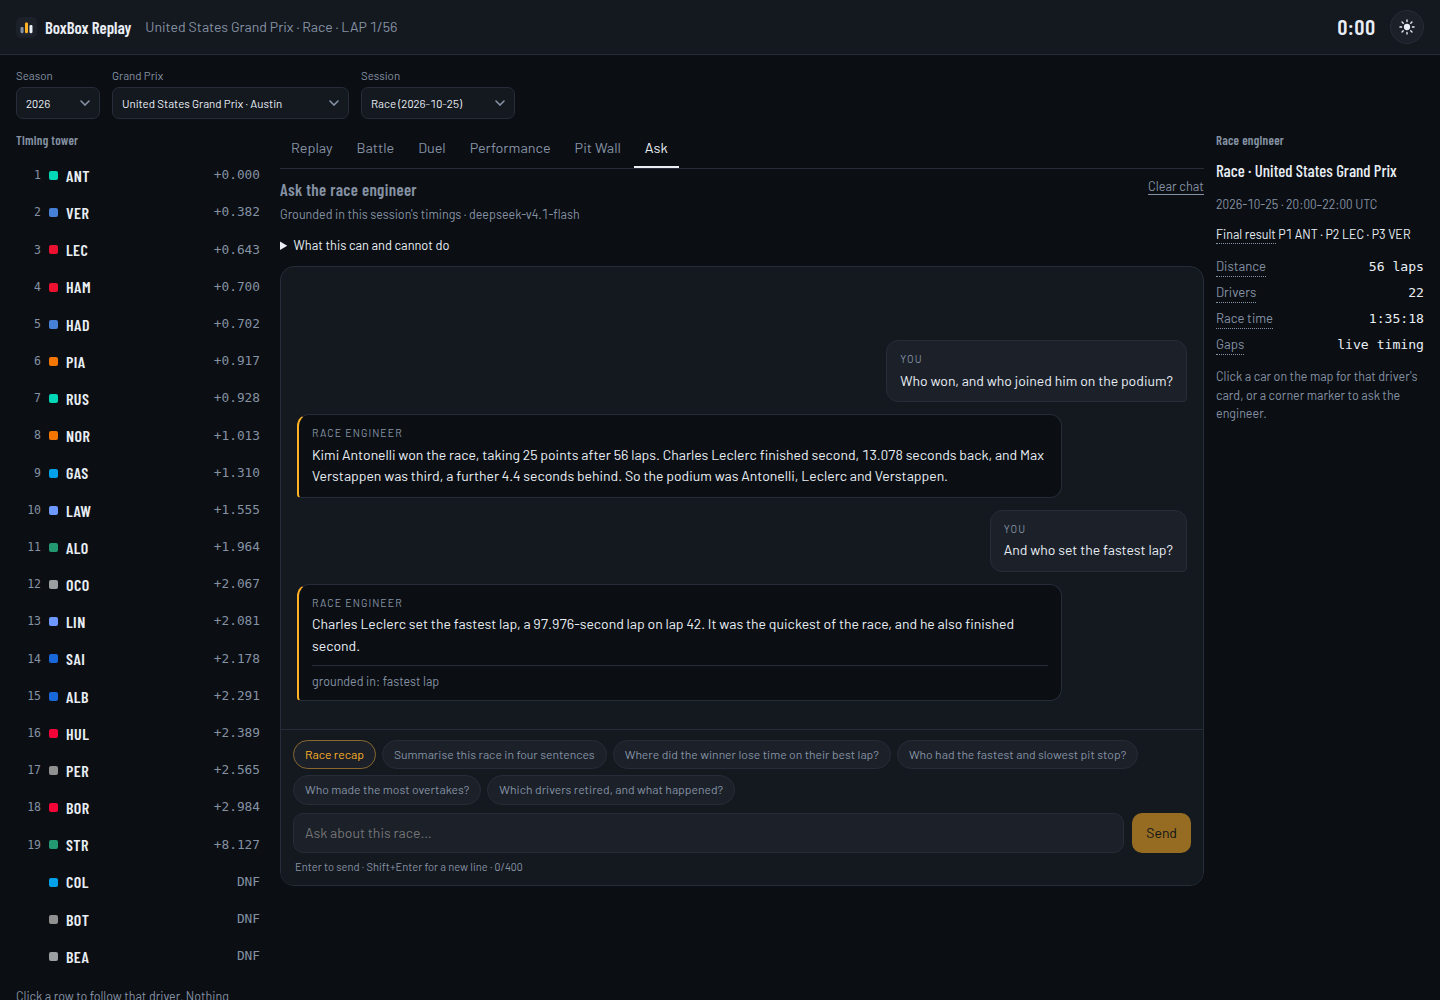
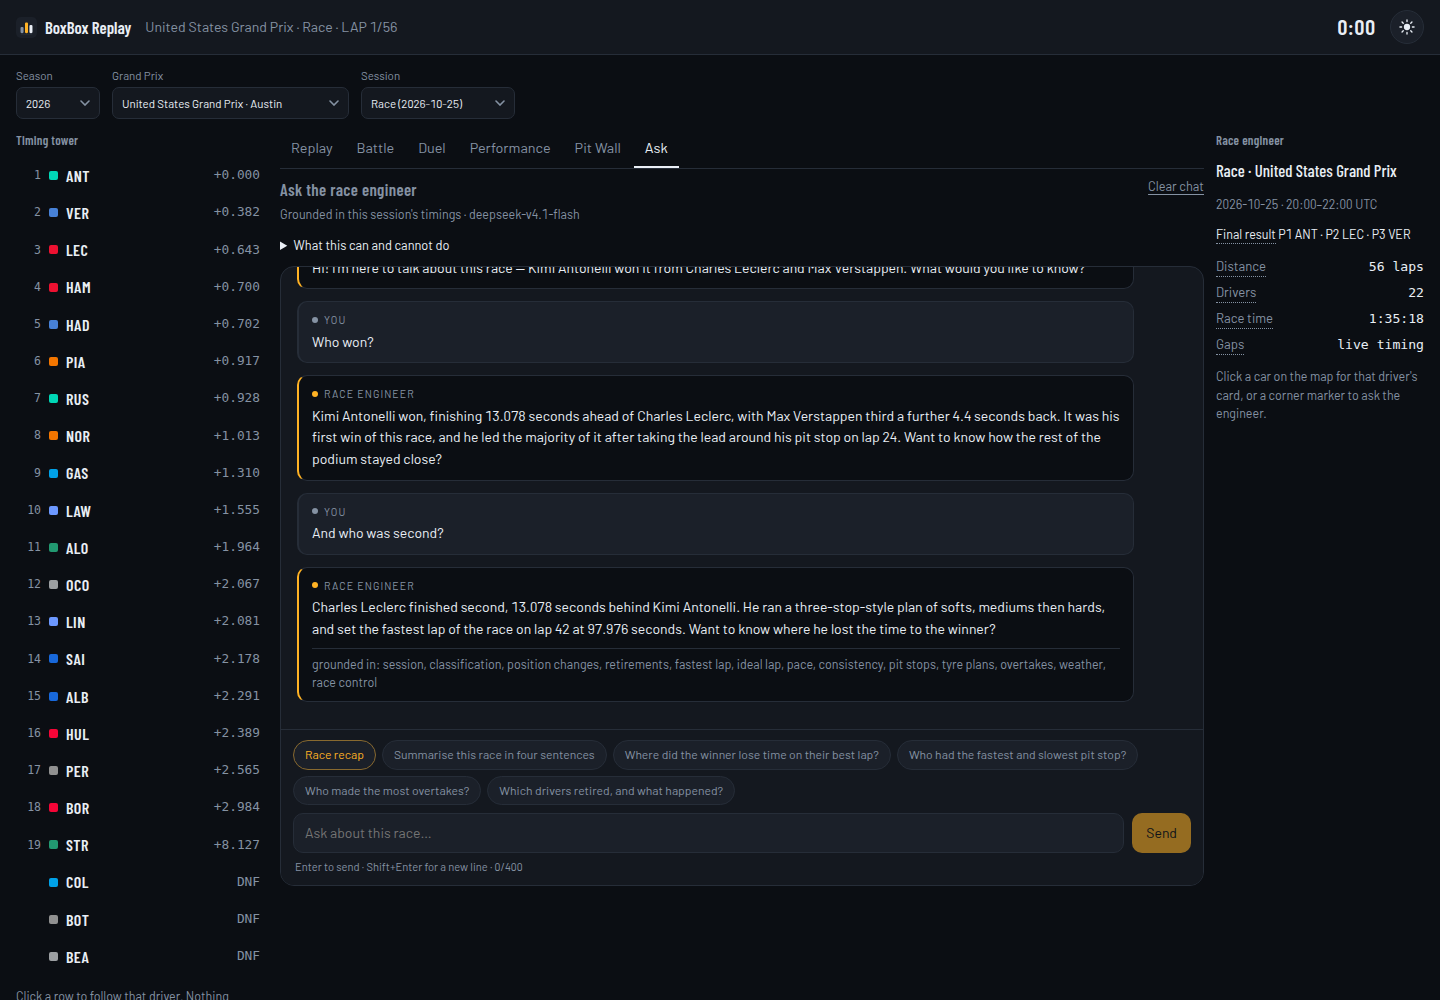
feat(pit,chat): readable transcript order and visible pit arithmetic
- chat: single left-aligned column with a role dot, so the thread reads
  you -> engineer -> you -> engineer instead of two bubble columns
- pit model returns the break-even pit loss, stay advantage, wear total and
  traffic penalty; the panel shows both sums with the real numbers, notes that
  wear cancels in the decision, and states the flip point
- the margin now says when it includes the traffic penalty
- the engineer explanation is introduced by what it receives and what it will
  not do (recalculate or change the totals)
- docs, screenshots and state updated; 88 pytest + 76 vitest

diff --git a/web/src/components/PitPanel.tsx b/web/src/components/PitPanel.tsx
@@ -23,6 +23,10 @@ interface Call {
   pit_total_s: number;
   recommendation: string;
   traffic_on_exit: boolean;
+  break_even_pit_loss_s: number;
+  stay_advantage_s: number;
+  deg_total_s: number;
+  traffic_penalty_s: number;
 }
 
 /**
@@ -229,6 +233,55 @@ export default function PitPanel(p: Props) {
             </p>
           )}
 
+          <h3 style={{ marginTop: 18 }}>The arithmetic, step by step</h3>
+          <p className="dim small" style={{ marginTop: -4 }}>
+            Both scenarios are summed over {lapsLeft} laps. The wear term appears in both, so it
+            cancels in the comparison — it moves the totals, not the decision.
+          </p>
+          <div className="pit-math">
+            <div className="pit-math-row">
+              <span>Stay out</span>
+              <code>
+                {lapsLeft} × {base.toFixed(2)} + {deg.toFixed(3)} × {Math.round((lapsLeft * (lapsLeft - 1)) / 2)} ={" "}
+                {call.stay_total_s.toFixed(1)}s
+              </code>
+            </div>
+            <div className="pit-math-row">
+              <span>Pit now</span>
+              <code>
+                {pitLoss.toFixed(1)} + {lapsLeft} × {fresh.toFixed(2)} + {deg.toFixed(3)} ×{" "}
+                {Math.round((lapsLeft * (lapsLeft - 1)) / 2)} = {call.pit_total_s.toFixed(1)}s
+              </code>
+            </div>
+            <div className="pit-math-row verdict">
+              <span>{call.recommendation === "PIT NOW" ? "Pitting wins" : "Staying out wins"}</span>
+              <code>
+                {Math.abs(call.stay_advantage_s).toFixed(1)}s over {lapsLeft} laps ·{" "}
+                {(Math.abs(call.stay_advantage_s) / Math.max(1, lapsLeft)).toFixed(2)}s per lap
+                {call.traffic_penalty_s > 0
+                  ? ` (includes the ${call.traffic_penalty_s.toFixed(1)}s traffic penalty)`
+                  : ""}
+              </code>
+            </div>
+          </div>
+          <p className="small">
+            {call.break_even_pit_loss_s <= 0 ? (
+              <>Break-even: even a free pit stop would not pay off at this pace.</>
+            ) : (
+              <>
+                Break-even pit loss: <b>{call.break_even_pit_loss_s.toFixed(1)}s</b>. A stop that
+                costs less than that favours pitting; this one is set to {pitLoss.toFixed(1)}s
+                {call.traffic_penalty_s > 0
+                  ? ` plus ${call.traffic_penalty_s.toFixed(1)}s of traffic penalty`
+                  : ""}
+                , so the model says <b>{call.recommendation.toLowerCase()}</b>.
+              </>
+            )}
+          </p>
+          <p className="dim small">
+            Wear adds {call.deg_total_s.toFixed(1)}s to both scenarios over these {lapsLeft} laps.
+          </p>
+
           <div className="pit-explain">
             <button
               type="button"
@@ -264,9 +317,15 @@ export default function PitPanel(p: Props) {
             >
               {explainBusy ? "Asking the engineer…" : "Explain this call"}
             </button>
-            <span className="dim small">
-              Plain-language reasoning from the same numbers — the model never recalculates them.
-            </span>
+            <div className="pit-ai-help">
+              <p className="dim small">
+                The engineer receives the driver, tyre and age, laps remaining, current and
+                fresh-tyre pace, wear, the pit-loss slider, the gap behind and the two totals. It
+                writes three sentences: which way the model leans, the main reason, and the single
+                biggest assumption. It never recalculates or changes the numbers, and it cannot see
+                anything outside this session.
+              </p>
+            </div>
             {explainError && <p className="small warn">{explainError}</p>}
             {explain && (
               <div className="pit-explain-note">

diff --git a/web/src/index.css b/web/src/index.css
@@ -2039,31 +2039,39 @@ tr.driver-marked td {
   font-weight: 600;
 }
 .ask-turn {
-  max-width: 86%;
+  max-width: 94%;
   border: 1px solid var(--line);
-  border-radius: 12px;
+  border-left: 2px solid var(--line);
+  border-radius: 10px;
   padding: 10px 13px;
   background: var(--bg);
   overflow-wrap: anywhere;
 }
 .ask-turn.user {
-  margin-left: auto;
-  max-width: 76%;
   background: var(--panel-2);
-  border-color: var(--line);
-  border-bottom-right-radius: 4px;
 }
 .ask-turn.engineer {
-  border-left: 2px solid var(--amber);
-  border-bottom-left-radius: 4px;
+  border-left-color: var(--amber);
 }
 .ask-role {
-  display: block;
+  display: flex;
+  align-items: center;
+  gap: 6px;
   font-size: 0.66rem;
   letter-spacing: 0.1em;
   text-transform: uppercase;
   color: var(--dim);
   margin-bottom: 3px;
+}
+.ask-role::before {
+  content: "";
+  width: 6px;
+  height: 6px;
+  border-radius: 50%;
+  background: var(--dim);
+}
+.ask-turn.engineer .ask-role::before {
+  background: var(--amber);
 }
 .ask-turn p {
   margin: 0;
@@ -2212,16 +2220,13 @@ tr.driver-marked td {
     min-height: 320px;
   }
   .ask-turn {
-    max-width: 94%;
-  }
-  .ask-turn.user {
-    max-width: 88%;
+    max-width: 100%;
   }
 }
 .pit-explain {
   display: flex;
-  flex-wrap: wrap;
-  align-items: center;
+  flex-direction: column;
+  align-items: flex-start;
   gap: var(--space-2);
   margin-top: var(--space-3);
 }
@@ -2256,4 +2261,41 @@ tr.driver-marked td {
 .pit-explain-note footer {
   border-top: 1px solid var(--line);
   padding-top: 6px;
+}
+
+.pit-math {
+  display: grid;
+  gap: 4px;
+  margin: 6px 0 10px;
+  font-size: 0.82rem;
+}
+.pit-math-row {
+  display: flex;
+  justify-content: space-between;
+  gap: var(--space-3);
+  padding: 6px 10px;
+  background: var(--panel-2);
+  border-radius: 6px;
+}
+.pit-math-row code {
+  font-variant-numeric: tabular-nums;
+  color: var(--ink);
+}
+.pit-math-row.verdict {
+  background: transparent;
+  border: 1px solid var(--line);
+}
+.pit-ai-help {
+  flex-basis: 100%;
+  max-width: 74ch;
+}
+.pit-ai-help p {
+  margin: 0;
+  line-height: 1.5;
+}
+@media (max-width: 640px) {
+  .pit-math-row {
+    flex-direction: column;
+    gap: 2px;
+  }
 }

diff --git a/web/src/api.ts b/web/src/api.ts
@@ -122,6 +122,10 @@ export const api = {
         recommendation: string;
         traffic_on_exit: boolean;
         toy_model: boolean;
+        break_even_pit_loss_s: number;
+        stay_advantage_s: number;
+        deg_total_s: number;
+        traffic_penalty_s: number;
       };
     }>("/ai/pit", body),
   aiAsk: (sessionKey: number, question: string) =>
@@ -169,6 +173,10 @@ export const api = {
       recommendation: string;
       traffic_on_exit: boolean;
       toy_model: boolean;
+      break_even_pit_loss_s: number;
+      stay_advantage_s: number;
+      deg_total_s: number;
+      traffic_penalty_s: number;
     }>("/pit-call", body),
   coachAsk: (body: {
     driver: string;

diff --git a/analysis.py b/analysis.py
@@ -514,11 +514,16 @@ def pit_toy_model(
     if laps_remaining < 1:
         raise ValueError("laps_remaining must be >= 1")
     deg = max(0.0, float(deg_slope_s_per_lap))
-    stay_total = sum(base_pace_s + deg * i for i in range(laps_remaining))
-    pit_total = float(pit_loss_s) + sum(fresh_pace_s + deg * i for i in range(laps_remaining))
+    laps = int(laps_remaining)
+    # Same degradation term in both scenarios: it cancels in the comparison and
+    # only moves the totals. Exposed so the UI can show the algebra.
+    deg_total = deg * laps * (laps - 1) / 2.0
+    stay_total = laps * float(base_pace_s) + deg_total
+    pit_total = float(pit_loss_s) + laps * float(fresh_pace_s) + deg_total
     traffic = gap_behind_s is not None and gap_behind_s < float(pit_loss_s)
+    penalty = 5.0 if traffic else 0.0
     recommend = "STAY OUT"
-    if pit_total + (5.0 if traffic else 0.0) < stay_total:
+    if pit_total + penalty < stay_total:
         recommend = "PIT NOW"
     return {
         "stay_total_s": stay_total,
@@ -526,6 +531,12 @@ def pit_toy_model(
         "recommendation": recommend,
         "traffic_on_exit": bool(traffic),
         "toy_model": True,
+        # Pit loss at which the call flips; below it, pitting wins.
+        "break_even_pit_loss_s": laps * (float(base_pace_s) - float(fresh_pace_s)) - penalty,
+        # Positive means staying out is ahead by this many seconds.
+        "stay_advantage_s": pit_total + penalty - stay_total,
+        "deg_total_s": deg_total,
+        "traffic_penalty_s": penalty,
     }
 
 

diff --git a/tests/test_analysis.py b/tests/test_analysis.py
@@ -374,3 +374,26 @@ def test_clean_track_points_keeps_a_normal_trace():
     xs = np.arange(0, 60) * 100.0
     frame = pd.DataFrame({"x": xs, "y": np.zeros_like(xs)})
     assert len(analysis.clean_track_points(frame, "x", "y")) == len(frame)
+
+
+def test_pit_model_exposes_the_arithmetic():
+    call = analysis.pit_toy_model(100.0, 99.0, 0.2, 10, pit_loss_s=5.0)
+    # deg term cancels: 10 laps at +0.2/lap = 9.0s in both totals
+    assert call["deg_total_s"] == pytest.approx(9.0)
+    assert call["stay_total_s"] == pytest.approx(1009.0)
+    assert call["pit_total_s"] == pytest.approx(5.0 + 990.0 + 9.0)
+    # break-even is 10 * (100 - 99) = 10s; a 5s stop is under it, so pit wins
+    assert call["break_even_pit_loss_s"] == pytest.approx(10.0)
+    assert call["stay_advantage_s"] == pytest.approx(-5.0)
+    assert call["recommendation"] == "PIT NOW"
+
+    # Above the break-even the call flips, and degradation does not change that.
+    expensive = analysis.pit_toy_model(100.0, 99.0, 0.2, 10, pit_loss_s=15.0)
+    assert expensive["break_even_pit_loss_s"] == pytest.approx(10.0)
+    assert expensive["recommendation"] == "STAY OUT"
+    assert expensive["stay_advantage_s"] == pytest.approx(5.0)
+
+    # Traffic eats five seconds of the break-even budget.
+    traffic = analysis.pit_toy_model(100.0, 99.0, 0.2, 10, pit_loss_s=5.0, gap_behind_s=1.0)
+    assert traffic["traffic_penalty_s"] == pytest.approx(5.0)
+    assert traffic["break_even_pit_loss_s"] == pytest.approx(5.0)

diff --git a/api/main.py b/api/main.py
@@ -1268,6 +1268,8 @@ def ai_pit_explain(body: PitExplainRequest) -> dict:
         + (f"{body.gap_behind_s:.1f}s" if body.gap_behind_s is not None else "not recorded")
         + f".\nModel totals: stay out {call['stay_total_s']:.1f}s vs pit "
         f"{call['pit_total_s']:.1f}s. The model leans: {lean}. "
+        f"Break-even pit loss: {call['break_even_pit_loss_s']:.1f}s. "
+        f"Wear adds {call['deg_total_s']:.1f}s to both totals. "
         f"Traffic on exit: {'yes' if call['traffic_on_exit'] else 'no'}. "
         f"This is an explicit toy model: no safety car, linear degradation, "
         f"and the pit loss is an assumption."

diff --git a/README.md b/README.md
@@ -20,8 +20,8 @@ Free, no account, no live-timing subscription. Data comes from public archives a
 - **Lap times.** Sortable by time or sector (fastest first), filterable by driver, and comparable across any number of drivers.
 - **Driver inputs.** Throttle, brake, gear and DRS for the lap under the playhead, overlaid for every followed driver, with a hover readout at any point on the trace; missing channels print "—" instead of a guess.
 - **Lap duel.** Two laps race the same circuit, aligned by distance around the lap, with a live delta that starts at 0.000 and closes exactly on the official lap-time difference.
-- **Pit strategy toy model.** "Pit now or stay out?" using measured pace and wear, with the breakdown and every assumption shown — plus an **Explain this call** button where the engineer puts the numbers into plain language without recalculating them.
-- **Ask the race engineer (chat).** A bordered chat panel with a pinned composer: follow-ups keep the thread, prompt chips stay one click away, the transcript scrolls (with a “Newest” jump when you read back), long questions wrap, and Clear chat wipes the tab-local history. Answers use full driver names and every session fact (full classification, retirements, sector and ideal-lap references, pace, pit stops, tyre plans, overtakes, weather, race control), stay in the app's voice, and decline off-topic questions. The API key stays on the server.
+- **Pit strategy toy model.** "Pit now or stay out?" using measured pace and wear, with the arithmetic shown step by step, a **break-even pit loss**, the assumptions, and an **Explain this call** button that names exactly what the engineer receives and will not recalculate.
+- **Ask the race engineer (chat).** A bordered chat panel with a pinned composer, read top-to-bottom as one column (you, engineer, you, engineer): follow-ups keep the thread, prompt chips stay one click away, the transcript scrolls (with a “Newest” jump when you read back), long questions wrap, and Clear chat wipes the tab-local history. Answers use full driver names and every session fact (full classification, retirements, sector and ideal-lap references, pace, pit stops, tyre plans, overtakes, weather, race control), stay in the app's voice, and decline off-topic questions. The API key stays on the server.
 - **Shareable moments.** "Copy link" stores the exact timestamp, so a link reopens the same frame.
 - **Dark and light themes**, keyboard shortcuts, reduced-motion support, and a layout that stacks on phones.
 

diff --git a/docs/V2_PLAN.md b/docs/V2_PLAN.md
@@ -308,3 +308,28 @@ Two real bugs surfaced while testing: the transcript did not scroll on load
 because the shell mounts only after `/ai/status` resolves (the effect now depends
 on it), and smooth scrolling during layout could stall (auto-follow now uses an
 instant scroll in a frame).
+
+## V2.13 — Transcript read order and pit-wall arithmetic (shipped)
+
+**Chat.** The left/right bubble split read like two columns; the transcript is
+now a single left-aligned column with a role dot, so the order is unmistakably
+you → engineer → you → engineer. The panel, pinned composer, prompts and scroll
+behaviour are unchanged.
+
+**Pit wall.** The panel now shows its own algebra:
+
+- stay out = `laps × current pace + wear × n(n−1)/2`
+- pit now = `pit loss + laps × fresh pace + wear × n(n−1)/2`
+- the wear term is identical in both, so it cancels in the decision and only
+  moves the totals (called out next to the sums)
+- **break-even pit loss** = `laps × (current − fresh) − traffic penalty`; the
+  model returns it, and the UI says whether the slider is above or below it
+  (or that even a free stop would not pay off)
+- the margin shown includes the traffic penalty only when it applies, and says so
+- the engineer explanation now sits under a description of what it receives
+  (driver, tyre/age, laps left, both paces, wear, pit loss, gap, totals) and what
+  it will not do (recalculate or change the numbers).
+
+The model returns `break_even_pit_loss_s`, `stay_advantage_s`, `deg_total_s` and
+`traffic_penalty_s`, covered by a test that checks the algebra, the flip point
+and the traffic adjustment.

diff --git a/.claude/state/CURRENT_STATUS.md b/.claude/state/CURRENT_STATUS.md
@@ -19,6 +19,7 @@ DEPLOYED prod, healthy at http://<host>:8501.
 - [x] V2.11: chat thread with clear + sessionStorage; pit stop/consistency/position facts
 - [x] V2.12: pit-wall 'Explain this call' (model narrates, never recalculates)
 - [x] V2.13: chat panel rebuilt (pinned composer, prompts, scroll/jump, mobile)
+- [x] V2.14: transcript single column; pit-wall arithmetic + break-even + AI scope
 - [ ] V2.6 pit Gantt · V2.7 share card · V2.5 fight finder deferred (feed too noisy)
 - [x] fix: glitch filter no longer truncates a circuit after one telemetry gap
 - [x] R1: all-driver canvas replay (map, tower, playback, synced trace)
@@ -38,7 +39,7 @@ None
 - API image: non-root user, no secrets baked, `no-new-privileges`, named cache volume in prod.
 
 ## Last Updated
-2026-11-06: chat panel rebuild; v2.6.0
+2026-11-06: transcript order + pit-wall arithmetic; v2.7.0
 (Update this line and keep this file under ~80 lines; move history to HISTORY.md.)
 
 - [x] U9: smoothness (60fps), chart hover + responsive widths, stacked stints, honest pit model

diff --git a/.claude/state/HISTORY.md b/.claude/state/HISTORY.md
@@ -400,3 +400,12 @@ renders after /ai/status), so the effect now depends on that flag; and smooth
 scrolling during layout could stall, so auto-follow uses an instant scroll in a
 requestAnimationFrame. Mobile: tab bar wraps, clear action no longer wraps, panel
 fits the viewport. Verified desktop + 390px, jump-to-bottom, persistence.
+
+Transcript + pit math pass: chat turns now read as one left-aligned column with a
+role dot (you/engineer/you/engineer) instead of right/left bubbles. The pit model
+returns break_even_pit_loss_s, stay_advantage_s, deg_total_s and
+traffic_penalty_s; the panel shows both sums with substituted numbers, notes that
+wear cancels in the decision, states the break-even (including the traffic
+penalty) and explains what the engineer receives and will not do. A UI bug where
+the traffic penalty was folded into the margin without saying so was fixed.
+88 pytest + 76 vitest.

diff --git a/docs/screenshots/README.md b/docs/screenshots/README.md
@@ -14,8 +14,8 @@ Captured from the running app (Suzuka 2024, Race, lap 25) at 1400×880, plus one
 | `07-mobile.png` | Phone layout |
 | `08-duel.png` | Lap duel: two laps on the circuit with the live delta |
 | `09-inputs.png` | Throttle, brake and gear for the lap under the playhead |
-| `10-ask.png` | Ask tab: bordered chat panel, prompts, thread |
+| `10-ask.png` | Ask tab: single-column transcript, prompts, composer |
 | `14-chat-mobile.png` | The same chat on a phone |
-| `13-pit-ai.png` | Pit wall with the engineer's explanation |
+| `13-pit-ai.png` | Pit wall: step-by-step arithmetic, break-even, engineer explanation |
 | `11-dashboard.png` | Landing dashboard with suggestions |
 | `12-dashboard-recent.png` | Continue list with the filter and remove controls |

diff --git a/.claude/state/TASK_QUEUE.md b/.claude/state/TASK_QUEUE.md
@@ -86,7 +86,8 @@ Rule for all: one milestone = one commit (`feat(mX): ...`), tests + ruff clean b
 | V2-10 | Dashboard filter/random + AI quality pass | DONE | 84 pytest, 71 vitest |
 | V2-11 | Chat thread + richer facts + pit explainer | DONE | 87 pytest, 76 vitest |
 | V2-12 | Chat panel rebuild (pinned composer, prompts, jump) | DONE | 2 scroll bugs fixed |
-| V2-13 | Tag releases | DONE | v1.0.0 … v2.5.0; v2.6.0 next |
+| V2-13 | Transcript single column + pit arithmetic/break-even | DONE | 88 pytest, 76 vitest |
+| V2-14 | Tag releases | DONE | v1.0.0 … v2.6.0; v2.7.0 next |
 
 ---
 
